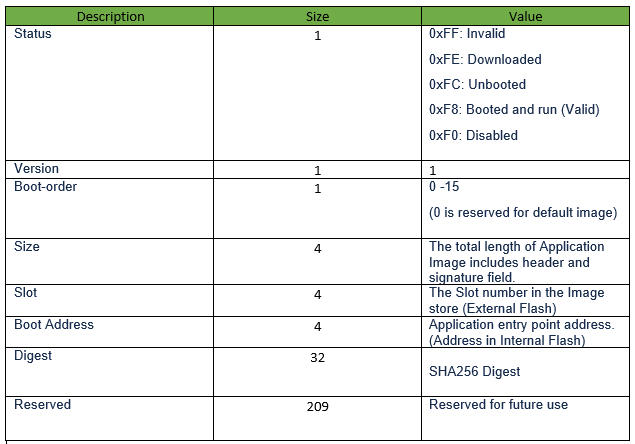
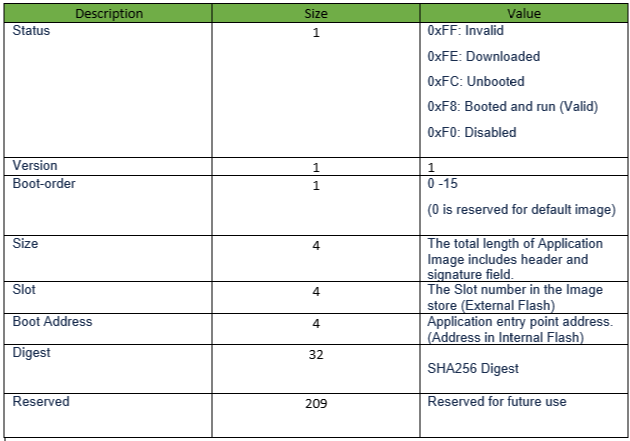
[OTA] - fic for bootloader document

Changed region(s): [[0.0, 0.0, 1.0, 1.0]]

diff --git a/apps/ota_bootloader/readme.md b/apps/ota_bootloader/readme.md
@@ -30,7 +30,7 @@ The External flash will be configured for 3 slots for storing upto 3 OTA images.
 
 1. Abstraction Model:
 
-    ![](images/abstraction_model.png)
+    ![abstraction_model](images/abstraction_model.png)
 
     - Bootloader is responsible to start the OTA process and download new image to Image Store in the external flash (sst26vf).
     - Image downloading is done through HTTP protocol.
@@ -67,7 +67,7 @@ There are two conditions :
 4. Once the copied image has been validated, the Bootloader updates STATUS field of the image header in the copied image of the Program-Flash area as “Valid” by writing a value "0xF8", then jumps to the Application Image.
 
 6. Header structure (256 bytes) :
-![](images/ota_header.png)
+![header_structure](images/ota_header.png)
 
 7. Flow chart :
 ![flowchart](images/BootSequence_BL2.png)
